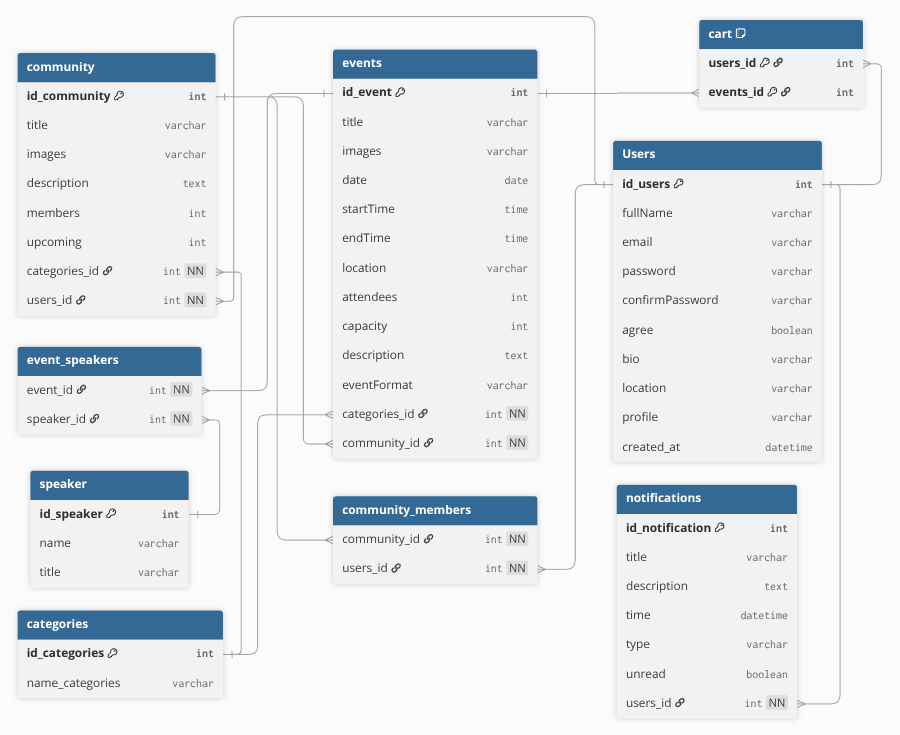
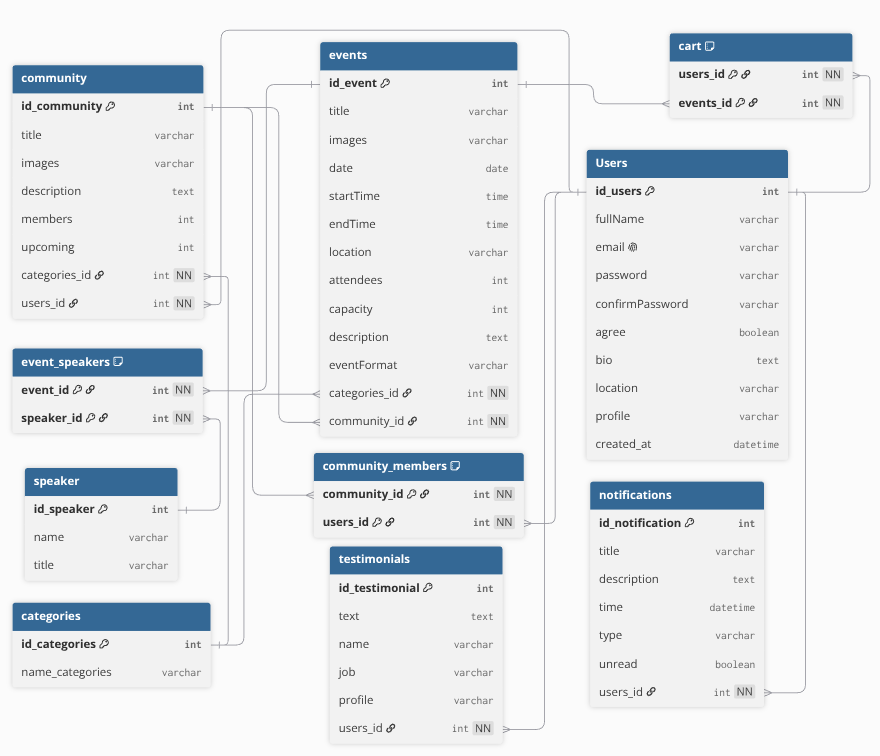
refactor: refactor ERD and dbDiagram

diff --git a/Readme.md b/Readme.md
@@ -77,6 +77,15 @@ erDiagram
         users_id int FK
     }
 
+    testimonials {
+        id_testimonial int PK
+        text string
+        name string
+        job string
+        profile string
+        users_id int FK
+    }
+
 
     Users ||--o{ cart : have
     events ||--o{ cart : container
@@ -93,7 +102,8 @@ erDiagram
     Users ||--o{ community_members : join
     community ||--o{ community_members : have
 
-    Users ||--o{ notifications : notif
+    Users ||--o{ notifications : receives
+    Users ||--o{ testimonials : writes
 ```
 
 ![https://dbdiagram.io/d/koda-b9-database-6aafed6c943b561dd493eaa3](./images/dbDiagram.png)
